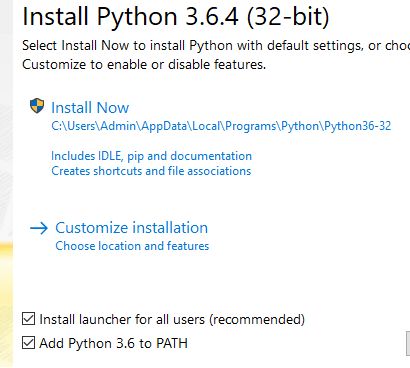
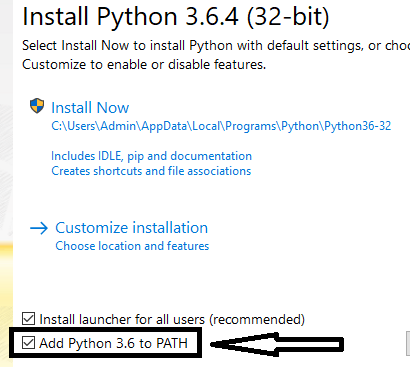
Update images

Changed region(s): [[0.0, 0.8668, 0.8488, 0.9864]]

diff --git a/README.md b/README.md
@@ -7,7 +7,9 @@
 ### On the first window MAKE SURE to click the Add To Path checkbox
 
 ![Python Image 1](/images/python1.png)
-At the end you may be given an option to "Disable Path Length". If the option is there choose it (or python wont be added to your path). If it's not there then you don't have to worry about it.
+
+### At the end you may be given an option to "Disable Path Length". If the option is there choose it (or python wont be added to your path). If it's not there then you don't have to worry about it.
+
 Pip should be installed with python and you can test this buying opening your command prompt and typing "pip help"
 Now let's install virtualenv
 In your command prompt run pip install virtualenv
